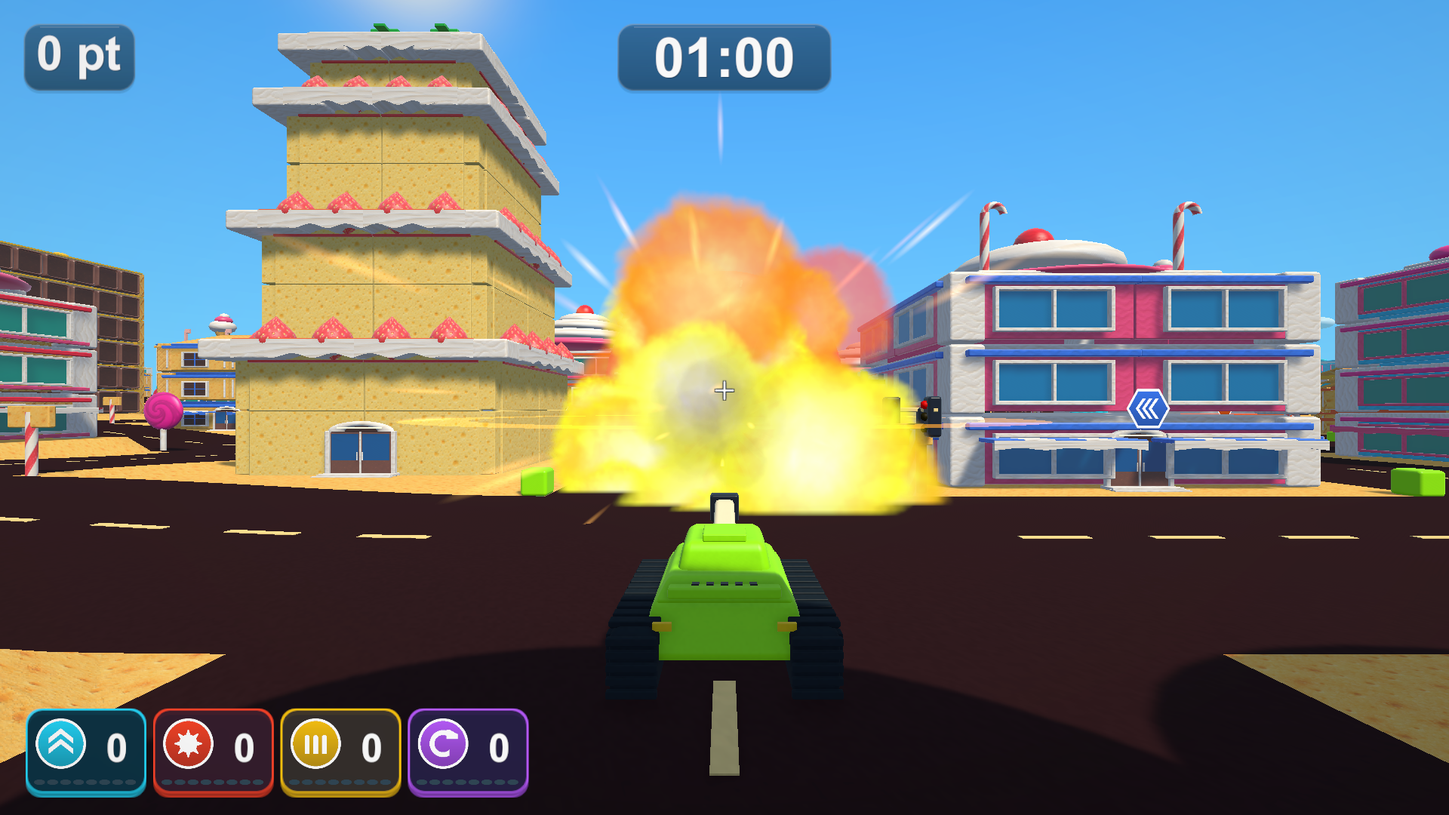
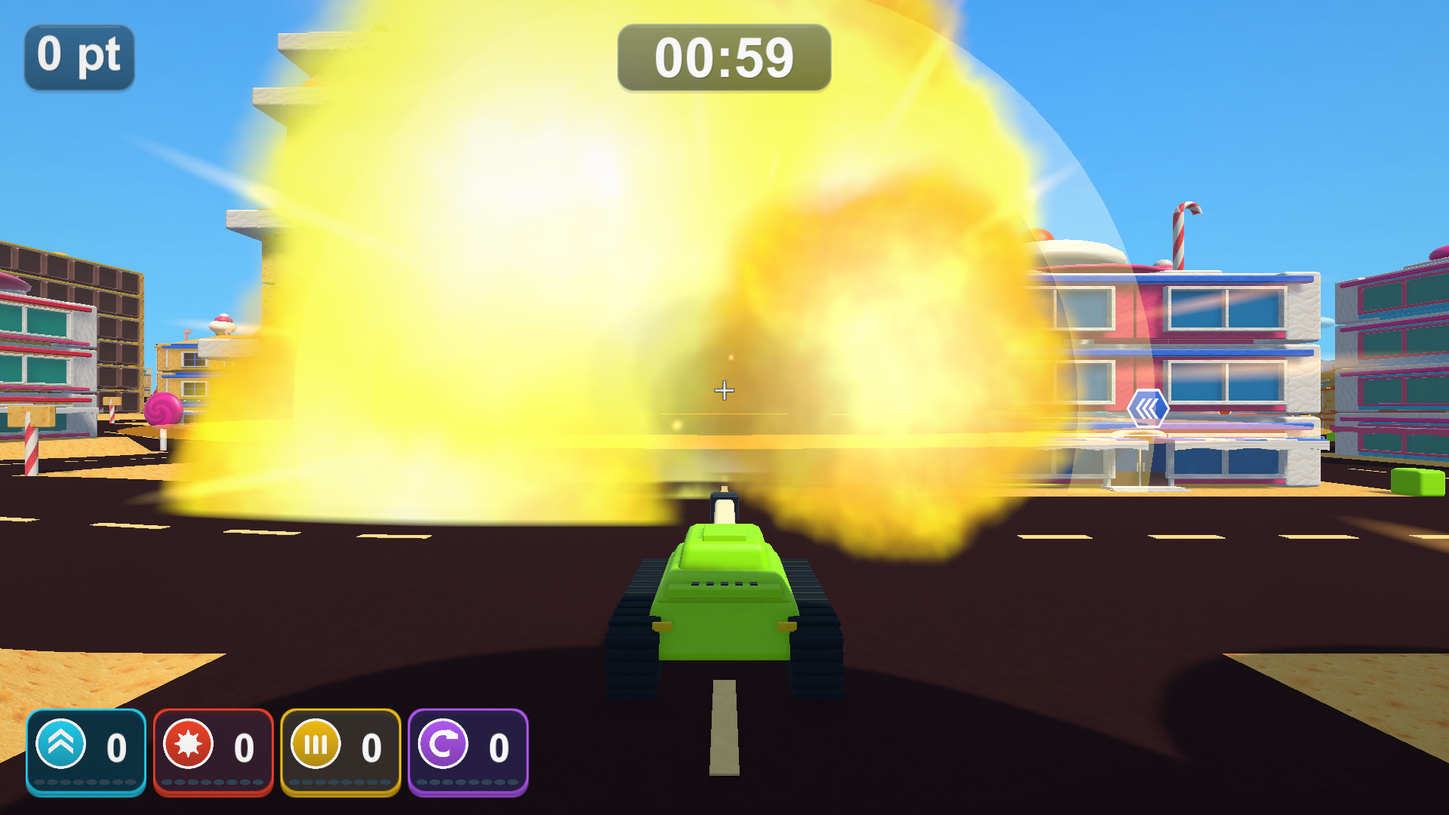
爆発をさらに巨大・長時間にし二重の衝撃波と低い爆発音を強化

diff --git a/Assets/TankTown/Runtime/TankExplosionVfx.cs b/Assets/TankTown/Runtime/TankExplosionVfx.cs
@@ -8,7 +8,7 @@ namespace TankTown
     internal sealed class TankExplosionVfx
     {
         internal const int Capacity = 16;
-        internal const float BurstLifetime = 2.4f;
+        internal const float BurstLifetime = 3.8f;
         private readonly Transform parent;
         private readonly List<FireballBurst> bursts = new List<FireballBurst>(Capacity);
         private readonly Material flame, smoke, sparks;
@@ -27,7 +27,7 @@ namespace TankTown
             parent = owner; sparks = sparkMaterial;
             flameTexture = CloudTexture(true); smokeTexture = CloudTexture(false);
             flame = new Material(Shader.Find("TankTown/Volume Particles")) { name = "Layered flame particles", mainTexture = flameTexture };
-            flame.SetFloat("_Fire", 1); flame.SetFloat("_Emission", 1.8f);
+            flame.SetFloat("_Fire", 1); flame.SetFloat("_Emission", 2.05f);
             smoke = new Material(Shader.Find("TankTown/Volume Particles")) { name = "Lit rolling smoke", mainTexture = smokeTexture };
             smoke.SetFloat("_Fire", 0); smoke.SetFloat("_Emission", 1);
             lightOwner = this; Shader.SetGlobalInt("_ToyFlashCount", 0);
@@ -60,15 +60,15 @@ namespace TankTown
                 target = root.AddComponent<FireballBurst>(); target.Build(flame, smoke, sparks); bursts.Add(target);
             }
             if (target == null) target = bursts[nextBurst++ % bursts.Count];
-            target.Emit(point, Mathf.Clamp(radius * 1.8f, 1.8f, 58));
+            target.Emit(point, Mathf.Clamp(radius * 2.8f, 2.8f, 86));
         }
 
         internal void Illuminate(Vector3 point, Color tint, float range, float life)
         {
             int slot = 0;
             for (int i = 1; i < time.Length; i++) if (time[i] < time[slot]) slot = i;
-            positions[slot] = new Vector4(point.x, point.y + 1, point.z, Mathf.Pow(Mathf.Clamp(range * 3.2f, 8, 100), 2));
-            tints[slot] = tint; time[slot] = duration[slot] = Mathf.Clamp(life * 1.8f, .16f, .45f);
+            positions[slot] = new Vector4(point.x, point.y + 1, point.z, Mathf.Pow(Mathf.Clamp(range * 3.8f, 10, 125), 2));
+            tints[slot] = tint; time[slot] = duration[slot] = Mathf.Clamp(life * 2.0f, .18f, .62f);
         }
 
         internal void Tick(float dt)
@@ -106,18 +106,18 @@ namespace TankTown
             smoke = Create("Rolling explosion smoke", smokeMaterial, 18);
             sparks = Create("Hot explosion sparks", sparkMaterial, 36);
             var renderer = sparks.GetComponent<ParticleSystemRenderer>(); renderer.renderMode = ParticleSystemRenderMode.Stretch;
-            renderer.lengthScale = 2.3f; renderer.velocityScale = .08f;
+            renderer.lengthScale = 3.2f; renderer.velocityScale = .10f;
         }
 
         private ParticleSystem Create(string label, Material material, int count)
         {
             var root = new GameObject(label); root.transform.SetParent(transform, false);
             var ps = root.AddComponent<ParticleSystem>(); ps.Stop(true, ParticleSystemStopBehavior.StopEmittingAndClear);
-            var main = ps.main; main.playOnAwake = false; main.loop = false; main.duration = .12f;
+            var main = ps.main; main.playOnAwake = false; main.loop = false; main.duration = .22f;
             main.maxParticles = count; main.simulationSpace = ParticleSystemSimulationSpace.World;
             main.startRotation = new ParticleSystem.MinMaxCurve(-Mathf.PI, Mathf.PI);
             var emission = ps.emission; emission.rateOverTime = 0;
-            emission.SetBursts(new[] { new ParticleSystem.Burst(0, (short)(count * .7f)), new ParticleSystem.Burst(.06f, (short)(count * .3f)) });
+            emission.SetBursts(new[] { new ParticleSystem.Burst(0, (short)(count * .7f)), new ParticleSystem.Burst(.14f, (short)(count * .3f)) });
             var shape = ps.shape; shape.shapeType = ParticleSystemShapeType.Sphere;
             var renderer = ps.GetComponent<ParticleSystemRenderer>(); renderer.sharedMaterial = material;
             renderer.shadowCastingMode = ShadowCastingMode.Off; renderer.receiveShadows = false;
@@ -128,18 +128,18 @@ namespace TankTown
         internal void Emit(Vector3 point, float radius)
         {
             gameObject.SetActive(true); transform.position = point; age = 0;
-            Configure(fire, radius, .48f, 1.10f, .32f, .72f, .9f, 1.65f);
-            Configure(smoke, radius, .85f, 1.75f, .38f, .78f, .22f, .48f);
-            Configure(sparks, radius, .45f, 1.15f, .018f, .045f, 2.4f, 4.2f);
+            Configure(fire, radius, .85f, 1.85f, .42f, .86f, .72f, 1.32f);
+            Configure(smoke, radius, 1.45f, 2.85f, .45f, .90f, .20f, .42f);
+            Configure(sparks, radius, .8f, 2.1f, .025f, .065f, 2.8f, 4.6f);
             var fireMain = fire.main; fireMain.gravityModifier = -.12f;
-            var smokeMain = smoke.main; smokeMain.gravityModifier = -.28f; smokeMain.startDelay = .28f;
+            var smokeMain = smoke.main; smokeMain.gravityModifier = -.28f; smokeMain.startDelay = .45f;
             var sparkMain = sparks.main; sparkMain.gravityModifier = 1.4f;
             AddRoll(fire, radius * .14f, .7f); AddRoll(smoke, radius * .10f, .35f);
-            SetGradient(fire, new[] { new GradientColorKey(new Color(1, .97f, .65f), 0), new GradientColorKey(new Color(1, .75f, .08f), .35f), new GradientColorKey(new Color(1, .22f, .015f), .7f), new GradientColorKey(new Color(.45f, .06f, .01f), 1) }, new[] { new GradientAlphaKey(1, 0), new GradientAlphaKey(.95f, .52f), new GradientAlphaKey(0, 1) });
-            SetGradient(smoke, new[] { new GradientColorKey(new Color(.46f, .32f, .24f), 0), new GradientColorKey(new Color(.55f, .53f, .51f), .35f), new GradientColorKey(new Color(.76f, .75f, .72f), 1) }, new[] { new GradientAlphaKey(0, 0), new GradientAlphaKey(.38f, .16f), new GradientAlphaKey(.16f, .55f), new GradientAlphaKey(0, 1) });
+            SetGradient(fire, new[] { new GradientColorKey(new Color(1, .97f, .65f), 0), new GradientColorKey(new Color(1, .75f, .08f), .42f), new GradientColorKey(new Color(1, .22f, .015f), .8f), new GradientColorKey(new Color(.45f, .06f, .01f), 1) }, new[] { new GradientAlphaKey(1, 0), new GradientAlphaKey(.95f, .62f), new GradientAlphaKey(0, 1) });
+            SetGradient(smoke, new[] { new GradientColorKey(new Color(.46f, .32f, .24f), 0), new GradientColorKey(new Color(.55f, .53f, .51f), .35f), new GradientColorKey(new Color(.76f, .75f, .72f), 1) }, new[] { new GradientAlphaKey(0, 0), new GradientAlphaKey(.42f, .16f), new GradientAlphaKey(.20f, .55f), new GradientAlphaKey(0, 1) });
             SetGradient(sparks, new[] { new GradientColorKey(new Color(1, .97f, .6f), 0), new GradientColorKey(new Color(1, .3f, .02f), 1) }, new[] { new GradientAlphaKey(1, 0), new GradientAlphaKey(0, 1) });
-            var fireSize = fire.sizeOverLifetime; fireSize.enabled = true; fireSize.size = new ParticleSystem.MinMaxCurve(1, new AnimationCurve(new Keyframe(0, .65f), new Keyframe(.24f, 1.25f), new Keyframe(.6f, 1.15f), new Keyframe(1, .65f)));
-            var smokeSize = smoke.sizeOverLifetime; smokeSize.enabled = true; smokeSize.size = new ParticleSystem.MinMaxCurve(1, AnimationCurve.Linear(0, .55f, 1, 1.9f));
+            var fireSize = fire.sizeOverLifetime; fireSize.enabled = true; fireSize.size = new ParticleSystem.MinMaxCurve(1, new AnimationCurve(new Keyframe(0, .7f), new Keyframe(.22f, 1.3f), new Keyframe(.68f, 1.2f), new Keyframe(1, .7f)));
+            var smokeSize = smoke.sizeOverLifetime; smokeSize.enabled = true; smokeSize.size = new ParticleSystem.MinMaxCurve(1, AnimationCurve.Linear(0, .65f, 1, 2.25f));
             foreach (var ps in new[] { fire, smoke, sparks }) ps.Play(false);
         }
 

diff --git a/Assets/TankTown/Runtime/TankTownEffects.cs b/Assets/TankTown/Runtime/TankTownEffects.cs
@@ -84,28 +84,29 @@ namespace TankTown
         {
             float visualRadius = Mathf.Clamp(radius * (settings != null ? settings.explosionVisualScale : 1.55f) * .55f, 2.5f, 8);
             Fireball(position, visualRadius);
-            Shockwave(position, new Color(1, .66f, .1f), visualRadius * 3.6f, .7f);
+            Shockwave(position, new Color(1, .66f, .1f), visualRadius * 5.1f, 1.05f);
+            Shockwave(position + Vector3.up * .5f, new Color(1, .91f, .38f), visualRadius * 3.6f, .65f, Quaternion.Euler(90, 0, 0));
             if (AccentAvailable())
             {
                 var rays = new GameObject("Explosion radial rays", typeof(MeshFilter), typeof(MeshRenderer)); accents.Add(rays);
                 rays.transform.SetParent(transform); rays.transform.position = position;
                 rays.GetComponent<MeshFilter>().sharedMesh = burst; rays.GetComponent<Renderer>().sharedMaterial = glow;
-                rays.AddComponent<ArcadePulse>().Initialize(new Color(1, .94f, .48f), visualRadius * 3.0f, .36f, true);
+                rays.AddComponent<ArcadePulse>().Initialize(new Color(1, .94f, .48f), visualRadius * 4.1f, .52f, true);
             }
-            Flash(position, new Color(1, .96f, .68f), visualRadius * 1.8f, .20f);
+            Flash(position, new Color(1, .96f, .68f), visualRadius * 2.5f, .28f);
         }
         public void Collapse(Vector3 position, float width)
         {
-            Particles(position, new Color(.91f, .83f, .65f), 34, 7, 3.2f, .5f, Vector3.up, true);
-            Particles(position, new Color(1, .67f, .15f), 35, 13, .4f, .4f, Vector3.up, false, true);
-            Shockwave(position, new Color(1, .75f, .3f), width, .35f);
+            Particles(position, new Color(.91f, .83f, .65f), 34, 9, 4.6f, 1.0f, Vector3.up, true);
+            Particles(position, new Color(1, .67f, .15f), 35, 17, .5f, .7f, Vector3.up, false, true);
+            Shockwave(position, new Color(1, .75f, .3f), width * 1.3f, .6f);
         }
         public void DebrisImpact(Vector3 position, float radius)
         {
             Fireball(position, radius * .85f);
-            Particles(position, new Color(1, .66f, .08f), 48, 28, .45f, .35f, Vector3.up, false, true);
-            Shockwave(position, new Color(1, .8f, .2f), radius * 2.7f, .5f);
-            Flash(position, new Color(1, .96f, .68f), radius * 1.6f, .18f);
+            Particles(position, new Color(1, .66f, .08f), 48, 32, .6f, .7f, Vector3.up, false, true);
+            Shockwave(position, new Color(1, .8f, .2f), radius * 3.6f, .8f);
+            Flash(position, new Color(1, .96f, .68f), radius * 2.2f, .24f);
         }
         public void EnergyImpact(Vector3 position, Color color)
         {
@@ -116,9 +117,9 @@ namespace TankTown
         public void SuperImpact(Vector3 position, float radius)
         {
             Fireball(position, radius * 1.25f);
-            Shockwave(position, new Color(1, .75f, .1f), radius * 4.3f, .95f);
-            Shockwave(position + Vector3.up * 2, new Color(1, .92f, .4f), radius * 3.8f, .75f, Quaternion.Euler(90, 0, 0));
-            Flash(position, Color.white, radius * 3.1f, .22f);
+            Shockwave(position, new Color(1, .75f, .1f), radius * 5.6f, 1.25f);
+            Shockwave(position + Vector3.up * 2, new Color(1, .92f, .4f), radius * 4.8f, 1.0f, Quaternion.Euler(90, 0, 0));
+            Flash(position, Color.white, radius * 4.0f, .30f);
         }
         public void FuelImpact(Vector3 position, float radius)
         {
@@ -127,8 +128,9 @@ namespace TankTown
         public void CarImpact(Vector3 position, float radius)
         {
             Fireball(position, radius * .95f);
-            Shockwave(position, new Color(1, .72f, .12f), radius * 3.8f, .75f);
-            Flash(position, new Color(1, .96f, .6f), radius * 2.0f, .18f);
+            Shockwave(position, new Color(1, .72f, .12f), radius * 5.1f, 1.05f);
+            Shockwave(position + Vector3.up * .5f, new Color(1, .92f, .4f), radius * 3.1f, .65f, Quaternion.Euler(90, 0, 0));
+            Flash(position, new Color(1, .96f, .6f), radius * 2.8f, .26f);
         }
         public void PedestrianBonk(Vector3 position)
         {

diff --git a/Assets/TankTown/Runtime/TankTownAudio.cs b/Assets/TankTown/Runtime/TankTownAudio.cs
@@ -40,8 +40,8 @@ namespace TankTown
                 source.loop = false;
                 source.dopplerLevel = 0;
                 source.rolloffMode = AudioRolloffMode.Linear;
-                source.minDistance = 18;
-                source.maxDistance = 125;
+                source.minDistance = 24;
+                source.maxDistance = 155;
                 voices[i] = source;
             }
         }
@@ -72,16 +72,17 @@ namespace TankTown
             voice.Stop();
             voice.transform.position = point;
             voice.clip = clips[clipIndex];
-            voice.spatialBlend = kind == TownSound.Cannon ? 0 : .8f;
+            voice.spatialBlend = kind == TownSound.Cannon ? 0 : .65f;
             voice.priority = kind == TownSound.Cannon ? 32 : kind == TownSound.BigExplosion ? 48 : 128;
-            voice.pitch = 1 + (float)(variation.NextDouble() - .5) * .06f;
-            baseVolumes[selected] = kind == TownSound.Cannon ? .6f : kind == TownSound.BigExplosion ? .6f : kind == TownSound.Debris ? .16f : kind == TownSound.Chain ? .3f : .38f;
+            float pitch = kind == TownSound.BigExplosion ? .86f : kind == TownSound.Impact ? .92f : kind == TownSound.Chain ? .95f : 1;
+            voice.pitch = pitch + (float)(variation.NextDouble() - .5) * .06f;
+            baseVolumes[selected] = kind == TownSound.Cannon ? .6f : kind == TownSound.BigExplosion ? .82f : kind == TownSound.Debris ? .18f : kind == TownSound.Chain ? .42f : .58f;
             voice.volume = 0;
             voice.Play();
             BalanceVolumes();
             started[selected] = now;
             played[key]++;
-            nextAllowed[key] = now + (kind == TownSound.Debris ? .07 : kind == TownSound.Chain ? .035 : 0);
+            nextAllowed[key] = now + (kind == TownSound.Debris ? .07 : kind == TownSound.Chain ? .026 : 0);
         }
 
         private void Update() { if (game != null && game.IsPlaying && !Paused) BalanceVolumes(); }
@@ -95,7 +96,7 @@ namespace TankTown
             float total = 0;
             for (int i = 0; i < groupVolumes.Length; i++)
             {
-                float budget = i == 2 ? .5f : .6f;
+                float budget = i == 2 ? .68f : i == 1 ? .82f : .6f;
                 groupGains[i] = Mathf.Min(1, budget / Mathf.Max(.0001f, groupVolumes[i]));
                 total += groupVolumes[i] * groupGains[i];
             }

diff --git a/Assets/TankTown/Runtime/TankTownVisualPolishSmoke.cs b/Assets/TankTown/Runtime/TankTownVisualPolishSmoke.cs
@@ -84,18 +84,18 @@ namespace TankTown
             Vector3 point = game.Tank.Muzzle.position + game.Tank.Muzzle.forward * 14 + Vector3.up * .5f;
             game.Effects.Impact(point, game.Stats.BlastRadius);
             yield return new WaitForSeconds(.035f); Capture("05-flash");
-            yield return new WaitForSeconds(.28f); Capture("06-flame");
-            yield return new WaitForSeconds(.9f); Capture("07-smoke");
+            yield return new WaitForSeconds(.46f); Capture("06-flame");
+            yield return new WaitForSeconds(2.0f); Capture("07-smoke");
             if (game.Effects.ActiveExplosionCount == 0 || !game.Effects.GetComponentsInChildren<ParticleSystem>().Any(x => x.IsAlive()))
                 throw new InvalidOperationException("Expanded explosion ended before its aftermath");
-            yield return new WaitForSeconds(1.4f); Capture("08-cleared");
+            yield return new WaitForSeconds(1.5f); Capture("08-cleared");
             if (game.Effects.ActiveExplosionCount != 0 || Shader.GetGlobalInt("_ToyFlashCount") != 0) throw new InvalidOperationException("Explosion did not clear its particles and illumination");
 
             game.Effects.CarImpact(point, 10);
-            yield return new WaitForSeconds(.32f); Capture("08b-car-flame");
+            yield return new WaitForSeconds(.5f); Capture("08b-car-flame");
             yield return new WaitForSeconds(TankExplosionVfx.BurstLifetime);
             game.Effects.SuperImpact(point + game.Tank.Muzzle.forward * 20, game.Settings.gigantBombRadius);
-            yield return new WaitForSeconds(.32f); Capture("08c-super-flame");
+            yield return new WaitForSeconds(.5f); Capture("08c-super-flame");
             yield return new WaitForSeconds(TankExplosionVfx.BurstLifetime);
 
             // Measure VFX cleanup before invincible ramming can cause real secondary explosions.

diff --git a/Assets/TankTown/Tests/PlayMode/TankTownVisualPolishTests.cs b/Assets/TankTown/Tests/PlayMode/TankTownVisualPolishTests.cs
@@ -91,10 +91,10 @@ namespace TankTown.Tests
             Assert.That(game.Effects.GetComponentsInChildren<ParticleSystemRenderer>().All(x => x.sharedMaterial.shader.isSupported), Is.True);
             game.TogglePause(); yield return new WaitForSecondsRealtime(.2f);
             Assert.That(game.Effects.ActiveExplosionCount, Is.EqualTo(TankExplosionVfx.Capacity));
-            game.TogglePause(); yield return new WaitForSeconds(1.15f);
+            game.TogglePause(); yield return new WaitForSeconds(2.45f);
             Assert.That(game.Effects.ActiveExplosionCount, Is.EqualTo(TankExplosionVfx.Capacity), "The larger explosion must retain its aftermath beyond the old cutoff");
             Assert.That(game.Effects.GetComponentsInChildren<ParticleSystem>().Any(x => x.IsAlive()), Is.True);
-            yield return new WaitForSeconds(TankExplosionVfx.BurstLifetime - 1.15f + .2f);
+            yield return new WaitForSeconds(TankExplosionVfx.BurstLifetime - 2.45f + .2f);
             Assert.That(game.Effects.ActiveExplosionCount, Is.Zero); Assert.That(Shader.GetGlobalInt("_ToyFlashCount"), Is.Zero);
             Assert.That(game.Effects.GetComponentsInChildren<ParticleSystem>(true).Any(x => x.IsAlive()), Is.False);
             game.Effects.SuperImpact(point, 24); yield return null;

diff --git a/Assets/TankTown/Tests/PlayMode/TankTownPresentationTests.cs b/Assets/TankTown/Tests/PlayMode/TankTownPresentationTests.cs
@@ -189,9 +189,9 @@ namespace TankTown.Tests
                 else game.Effects.Impact(point, game.Stats.BlastRadius);
                 Assert.That(game.Effects.GetComponentInChildren<FireballBurst>(), Is.Not.Null);
                 Assert.That(game.Effects.GetComponentsInChildren<ParticleSystem>().Length, Is.GreaterThan(0));
-                yield return new WaitForSeconds(1.2f);
+                yield return new WaitForSeconds(2.45f);
                 Assert.That(game.Effects.GetComponentsInChildren<ParticleSystem>().Any(x => x.IsAlive()), Is.True, "Explosion aftermath must outlast the previous short effect");
-                yield return new WaitForSeconds(TankExplosionVfx.BurstLifetime - 1.2f + .2f);
+                yield return new WaitForSeconds(TankExplosionVfx.BurstLifetime - 2.45f + .2f);
                 Assert.That(game.Effects.GetComponentInChildren<FireballBurst>() == null, Is.True);
                 Assert.That(game.Effects.GetComponentsInChildren<ParticleSystem>().Any(x => x.IsAlive()), Is.False, "Fire, sparks and smoke must clear for the next target");
                 Assert.That(game.Effects.GetComponentsInChildren<ArcadePulse>().Length, Is.Zero);

diff --git a/docs/expanded-explosion-validation.md b/docs/expanded-explosion-validation.md
@@ -1,40 +1,51 @@
-# 爆発の範囲と余韻を拡大
+# 大きく長い爆発と光・音の強化
 
-2026-10-19 / [Issue #33](https://github.com/Negi310/mission2026-game/issues/33)
+2026-10-19 / [Issue #35](https://github.com/Negi310/mission2026-game/issues/35) / [前段階の記録](https://github.com/Negi310/mission2026-game/blob/7c9f8d4/docs/expanded-explosion-validation.md)
 
-初回のParticleSystem版は見た目が小さく短かったため、通常砲撃・車・燃料の誘爆・巨大爆弾・自爆・破片の再炸裂に共通する爆炎を拡大しました。破壊範囲やダメージ、破片の寿命、アイテム終了前の点滅は変更していません。
+前回の拡大からさらに、通常砲撃・車・燃料の誘爆・巨大爆弾・自爆・破片の再炸裂に共通する爆炎を大きく長くしました。破壊判定・ダメージ・破片の寿命、アイテム終了前の点滅、カメラの安定性は維持しています。
 
-|表現|以前|今回|
+|表現|前回|今回|
 |---|---|---|
-|爆炎の基準サイズ|1倍|1.8倍、巨大爆発の半径上限も32→58|
-|爆炎の粒子寿命|0.18〜0.48秒|0.48〜1.10秒|
-|煙の粒子寿命|0.44〜0.84秒|0.85〜1.75秒、0.28秒遅れて発生|
-|火花の粒子寿命|0.20〜0.50秒|0.45〜1.15秒|
-|爆発全体の再利用まで|1.1秒|2.4秒|
-|通常砲撃の衝撃波|サイズ2.7倍・0.35秒|サイズ3.6倍・0.70秒|
-|車の衝撃波|サイズ2.8倍・0.38秒|サイズ3.8倍・0.75秒|
-|巨大爆発の衝撃波|サイズ3.2倍・0.50秒|サイズ4.3倍・0.95秒|
+|爆炎の基準サイズ（初回ParticleSystem版比）|1.8倍|2.8倍、前回から約1.56倍|
+|巨大爆発の演出半径の上限|58|86|
+|爆炎の粒子寿命|0.48〜1.10秒|0.85〜1.85秒|
+|煙の粒子寿命|0.85〜1.75秒|1.45〜2.85秒、0.45秒遅れて発生|
+|火花の粒子寿命|0.45〜1.15秒|0.80〜2.10秒、太く長い形状|
+|爆発全体の再利用まで|2.4秒|3.8秒|
+|通常砲撃の衝撃波|サイズ3.6倍・0.70秒|サイズ5.1倍・1.05秒、別方向の波も追加|
+|車の衝撃波|サイズ3.8倍・0.75秒|サイズ5.1倍・1.05秒、別方向の波も追加|
+|巨大爆発の衝撃波|サイズ4.3倍・0.95秒|サイズ5.6倍・1.25秒|
 
-炎は最大まで広がった形を少し長く保ち、外へ流れながら消えます。煙は薄めにして長く広げ、明るい中心を最初から覆わないよう発生を遅らせています。閃光と放射状の光も拡大・延長し、周囲を照らす範囲と照明の余韻も広げました。基準サイズは生成時の倍率で、画面上の大きさは経過時間・距離・粒子の動きによって変わります。
+炎は広がった形と明るさを長く保ち、0.14秒後の追加噴出で厚みを出します。煙は少し遅れて大きく広がり、炎の後にも残ります。通常砲撃と車にも水平・縦方向の二重の衝撃波を加え、放射状の光、閃光、周囲を照らす光も拡大・延長しました。建物が崩れる時の粉塵と、破片が炸裂した時の火花も強めています。基準サイズは生成時の倍率で、画面上の大きさは経過時間・距離・粒子の動きによって変わります。
 
-爆発は最大16組、補助演出64個、局所光4か所の上限を維持しています。粒子の同時数や物理演算は増やしていません。
+爆発は最大16組、補助演出64個、局所光4か所を維持しています。粒子の同時数や物理演算は増やしていません。
 
-通常砲撃の約0.32秒後：
+## 音
 
-![拡大した爆炎](images/tank-town-explosion-expanded-flame.png)
+提供済みのMP3を使い、着弾・誘爆・大爆発の基準ピッチをそれぞれ0.92・0.95・0.86に下げました。各音は±3%で変化します。基準音量は着弾0.38→0.58、誘爆0.30→0.42、大爆発0.60→0.82です。距離減衰も調整し、遠くの爆発の存在感を残します。連鎖音の間引きを35ms→26msにしました。
 
-約1.2秒後の煙の余韻：
+12音の固定枠、発射・大爆発の専用枠、全体の音量合計0.9以下の制御は維持します。新しい音源や無制限の重ね再生は追加しません。
 
-![薄く広がって残る煙](images/tank-town-explosion-expanded-smoke.png)
+## 実画面
+
+通常砲撃の約0.5秒後：
+
+![さらに大きくした爆炎](images/tank-town-explosion-expanded-flame.png)
+
+約2.5秒後の煙の余韻：
+
+![広がって残る煙](images/tank-town-explosion-expanded-smoke.png)
 
 ## 検証
 
-Unity 6000.3.19f1の専用コピーでPlayModeの関連11件が成功しました（20.85秒）。通常・巨大爆発が1.2秒後も残り、その後に粒子・補助演出が消えること、40発同時生成の上限・一時停止・消滅・再利用、アイテム終了予告と造形の回帰を確認しています。C#の変更5ファイルは検証コピーと改行正規化後一致しています。
+Unity 6000.3.19f1の専用コピーでPlayModeの関連15件が成功しました（23.89秒）。通常・巨大爆発が2.45秒後も残り、その後に粒子・補助演出が消えること、40発同時生成の上限・一時停止・消滅・再利用、終了予告・造形、音源の読み込み・割り当て・ミックス・ポーズ・終了を確認しています。C#の変更6ファイルは検証コピーと改行正規化後一致しています。Windows x64 Development Buildも成功しています。
 
-Windows x64 Development Buildに成功し、Town・CandyTown・BigCity・AmusementParkの実プレイヤー診断がすべて終了コード0で完了しました。計67枚を撮影し、通常砲撃・車・巨大爆発の広がり、1.2秒を超える余韻、16組の再利用・消滅、壁の実際の破壊と3種類の終了予告を確認しました。
+Town・CandyTown・BigCity・AmusementParkの実プレイヤー診断がすべて終了コード0で完了しました。計67枚を撮影し、通常砲撃・車・巨大爆発の広がり、約2.5秒後の余韻、16組の再利用・消滅、壁の実際の破壊と3種類の終了予告を確認しました。
 
-実プレイヤーの撮影条件は[初回の記録](visual-polish-validation.md)と同じです。通常のプレイ画面を撮影後、VFXの確認では交通・爆発物・通行人を非表示にし、爆発VFXを直接呼び出しています。今回は通常砲撃の約0.32秒後・約1.2秒後、車と巨大爆発の約0.32秒後も撮影しました。破壊判定を伴う壁への砲撃も別途確認しています。画像加工はしていません。
+音声の実プレイヤー診断も終了コード0です。発射2回・着弾101回・誘爆1回・大爆発1回、12音の上限、ポーズ・再開・結果での停止を確認しました。AudioListenerの実出力ピークは0.575でした。これは自動診断の出力測定で、手動の聴感評価ではありません。
 
-ローカルの `Builds/TankTown-ExpandedExplosion/TankTown.exe` が今回のビルドです。通常の起動先 `Builds/TankTown`、`Builds/TankTown-Amusement`、`Builds/TankTown-GameplayUI` にも反映し、RuntimeアセンブリのSHA-256一致を確認しました。GitHub Release v0.1.1は変更していません。
+撮影はシード2026・固定時間刻みです。通常プレイ画面の撮影後、近景・VFXの確認では交通・爆発物・通行人を非表示にして演出を直接呼び出しています。上の写真は通常砲撃の約0.5秒後・約2.5秒後です。壁への実砲撃も別に確認しています。画像加工はしていません。
 
-ログは作業フォルダーの `Logs/expanded-explosion-tests.xml`、`expanded-explosion-build.log`、`expanded-explosion-*-player.log`、`expanded-explosion-source-check.json`、`expanded-explosion-build-hashes.json` に保存しています。長時間の手動プレイや継続FPSの測定は含みません。READMEと検証記録を更新しました。開発手順に変更はなく、AGENTS・スキルの更新は不要です。
+ローカルの `Builds/TankTown-LoudExplosion/TankTown.exe` が今回のビルドです。通常の起動先 `Builds/TankTown`、`Builds/TankTown-Amusement`、`Builds/TankTown-GameplayUI` にも反映し、RuntimeアセンブリのSHA-256一致を確認しました。GitHub Release v0.1.1は変更していません。
+
+記録は作業フォルダーの `Logs/loud-explosion-tests.xml`、`loud-explosion-build.log`、`loud-explosion-*-player.log`、`loud-explosion-source-check.json`、`loud-explosion-build-hashes.json` です。長時間の手動プレイや継続FPSの測定は含みません。README・音の仕様・検証記録を更新しました。開発手順の変更はなく、AGENTS・スキルの更新は不要です。

diff --git a/README.md b/README.md
@@ -70,7 +70,7 @@ Unity **6000.3.19f1** で開き、メニュー **Tank Town → Create or open pl
 - 同じ部材は1回だけ加点。破片が消えても街全体の分母は変わりません。
 - 破片は最大2,000個。寿命を各破片で3.6〜4.8秒にばらけさせ、最後の0.45秒でフェードします。上限超過時は既存の破片全体からランダムに選んで消し、一棟ずつまとめて消える見え方を抑えます。戦車・地面・未破壊建物と物理衝突し、戦車に当たった破片は押しのけます。破片によって戦車は爆発しません。戦車への衝突トルクは無効化し、旋回は入力、上下方向の姿勢は地面で制御します。木の葉や看板を含めて初接触から部材を分離し、すぐ押し返します。破片同士は衝突を省略します。
 - 専用URPトゥーンシェーダーで、暖かい日差しと青みのある影、接地の陰影、材質別の反射とハイライトを表現します。窓は奥行きのある枠と空の反射、通常建物の屋上は縁を追加。木は枝付きの幹と色むらのある房状の樹冠で構成し、共有メッシュを使います。お菓子はチョコや飴のツヤ、スポンジやウエハースのマットな質感、柔らかいクリームを描き分けます。
-- 砲口の閃光、砲弾の軌跡、着弾の爆炎・火花・煙、衝撃波、倒壊の粉塵を表示します。爆炎と煙は専用の密度テクスチャ・シェーダーとParticleSystemで構成し、明るい中心から外側の炎、煙へ移行して約2.4秒で晴れます。爆炎の基準サイズは初回のParticleSystem版の1.8倍に拡大し、衝撃波と火花も広く長く残します。閃光は最大4か所の局所光として周囲の壁や地面を短く照らします。爆発3層を最大16組まで再利用し、補助の光や粒子も上限64個とします。画面揺れは使いません。爆発演出の標準倍率は1.55、破壊判定の半径とは別に調整できます。[実画面と検証](docs/visual-polish-validation.md)・[範囲と持続の拡大](docs/expanded-explosion-validation.md)。カメラの標準位置は戦車から高さ3.0・後方9.0、視野角は72度で一定です。遮る部材は専用シェーダーで一時的に透かし、建物を避けるための急なズームをなくしました。復帰や無敵中の街の外からの帰還は短い暗転で位置・角度の切り替えを隠します。照準は実際の砲撃方向を示します。
+- 砲口の閃光、砲弾の軌跡、着弾の爆炎・火花・煙、衝撃波、倒壊の粉塵を表示します。爆炎と煙は専用の密度テクスチャ・シェーダーとParticleSystemで構成し、明るい中心から外側の炎、煙へ移行して約3.8秒で晴れます。爆炎の基準サイズは初回のParticleSystem版の2.8倍に拡大し、二重の衝撃波と太い火花も広く長く残します。爆発音は低めのピッチと強い音量に調整し、連鎖音も厚くしています。閃光は最大4か所の局所光として周囲の壁や地面を短く照らします。爆発3層を最大16組まで再利用し、補助の光や粒子も上限64個とします。画面揺れは使いません。爆発演出の標準倍率は1.55、破壊判定の半径とは別に調整できます。[実画面と検証](docs/visual-polish-validation.md)・[範囲と持続の拡大](docs/expanded-explosion-validation.md)。カメラの標準位置は戦車から高さ3.0・後方9.0、視野角は72度で一定です。遮る部材は専用シェーダーで一時的に透かし、建物を避けるための急なズームをなくしました。復帰や無敵中の街の外からの帰還は短い暗転で位置・角度の切り替えを隠します。照準は実際の砲撃方向を示します。
 - 30度以下の坂を対象にした安全地点の履歴、復帰直後の衝突猶予、停止・タイムアップ・結果・再挑戦。
 - 道路を72台の車が走行。信号の赤で停止、青で発進し、前の車との間隔を保ちます。車の爆発は半径10・基準衝撃力の1.6倍で、近くの車や建物を巻き込みます。誘爆の火球・衝撃波は65%のサイズに抑えています。車・信号・電柱は体当たりや砲撃で壊せます。電線は両端の電柱につながり、支柱を壊すと消えます。
 - 72人のローポリ通行人が各街区の歩道を歩きます。顔・服・手足を持ち、歩行に合わせて腕と脚を動かします。当たり判定は半径0.95・高さ2.8のカプセルで、通常砲弾・ミサイルも接触位置で炸裂します。戦車・車・爆風・レーザーに触れるとコミカルに転がり、歩道へ戻ります。通行人は戦車を押さず、破壊度の加点対象にも含めません。

diff --git a/docs/sound-effects-validation.md b/docs/sound-effects-validation.md
@@ -17,12 +17,14 @@ Downloads内の原本は保持し、同じバイト列をAssets/TankTown/Resourc
 
 - 初期化時に4音源を読み込み、モノラルPCMへ展開して最初の発射を待たせません。インポート設定はこのAudioフォルダーだけに適用します。
 - AudioSourceは12個を再利用します。発射2音、大爆発2音、その他8音の専用枠を設け、連鎖による無制限の音源生成を防ぎます。
-- 車などの連鎖音は35ms、破片の接触音は70ms以内の重複を間引きます。破片の音量は低く設定しています。
+- 車などの連鎖音は26ms、破片の接触音は70ms以内の重複を間引きます。破片の音量は低く設定しています。
 - 重なった音は種類ごとの合計音量と全体の合計音量を自動調整します。小さい爆発だけが発射・大爆発をかき消さないようにし、提供音源の音量の合計を0.9以下に保ちます。
-- 発射音は一定の音量、爆発音は発生地点の方向・距離を反映します。ドップラー効果は使いません。±3%のピッチ変化には物理演出とは別の乱数を使います。
+- 発射音は一定の音量、爆発音は発生地点の方向・距離を反映します。ドップラー効果は使いません。基準ピッチは着弾0.92・誘爆0.95・大爆発0.86に下げ、各音の±3%の変化には物理演出とは別の乱数を使います。
 - 発射クールタイム中やアイテムへの入力では通常の発射音は鳴りません。ポーズで音の再生位置も止まり、再開時に続きから再生します。結果画面では全音を停止します。
 
 ## 検証
+
+2026-10-19の追加調整で爆発音の音量・距離減衰を強めました。大爆発の基準音量は0.82、着弾は0.58、誘爆は0.42です。再生枠12個と全体の合計音量0.9以下は維持しています。[最新の演出と音の検証](expanded-explosion-validation.md)。以下は初回組み込み時の検証記録です。
 
 Unity 6000.3.19f1の分離した検証プロジェクトで確認しました。元のプロジェクトのPackages・設定・シーンを使って検証を起動せず、確認済みのWindows実行ファイルをBuilds/TankTownへ反映しています。
 

diff --git a/docs/visual-polish-validation.md b/docs/visual-polish-validation.md
@@ -2,7 +2,7 @@
 
 2026-10-19 / [Issue #31](https://github.com/Negi310/mission2026-game/issues/31)
 
-追記：爆発の範囲と持続は[追加調整](expanded-explosion-validation.md)で拡大しました。以下の爆発時間・写真・検証結果は初回実装時の記録です。現在は基準サイズ1.8倍・最大約2.4秒です。
+追記：爆発の範囲と持続は[追加調整](expanded-explosion-validation.md)で拡大しました。以下の爆発時間・写真・検証結果は初回実装時の記録です。現在は基準サイズ2.8倍・最大約3.8秒で、爆発音も強めています。
 
 [実画面の比較ビューアー](visual-polish-review.html)で、お菓子・大型街・遊園地、木、材質、爆発の各段階、終了予告を切り替えられます。画像はWindowsプレイヤーからのキャプチャです。
 
